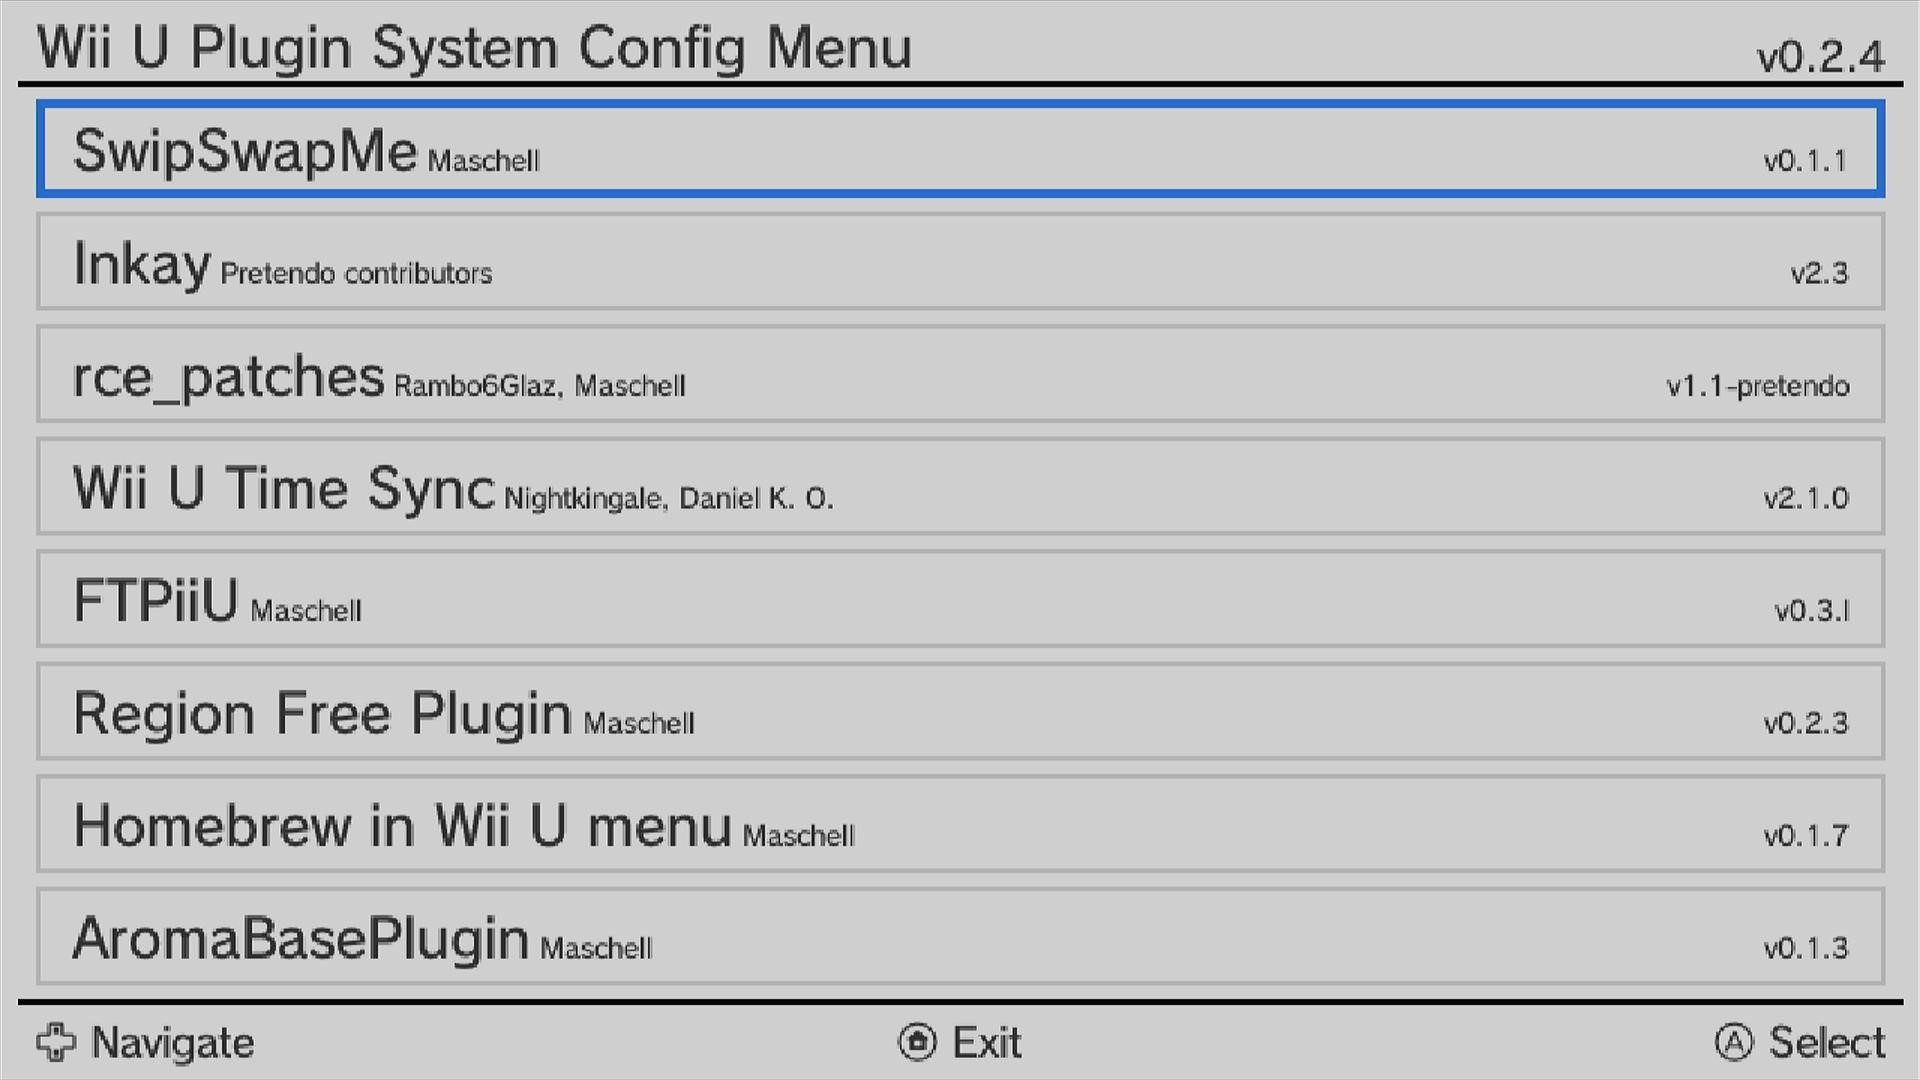
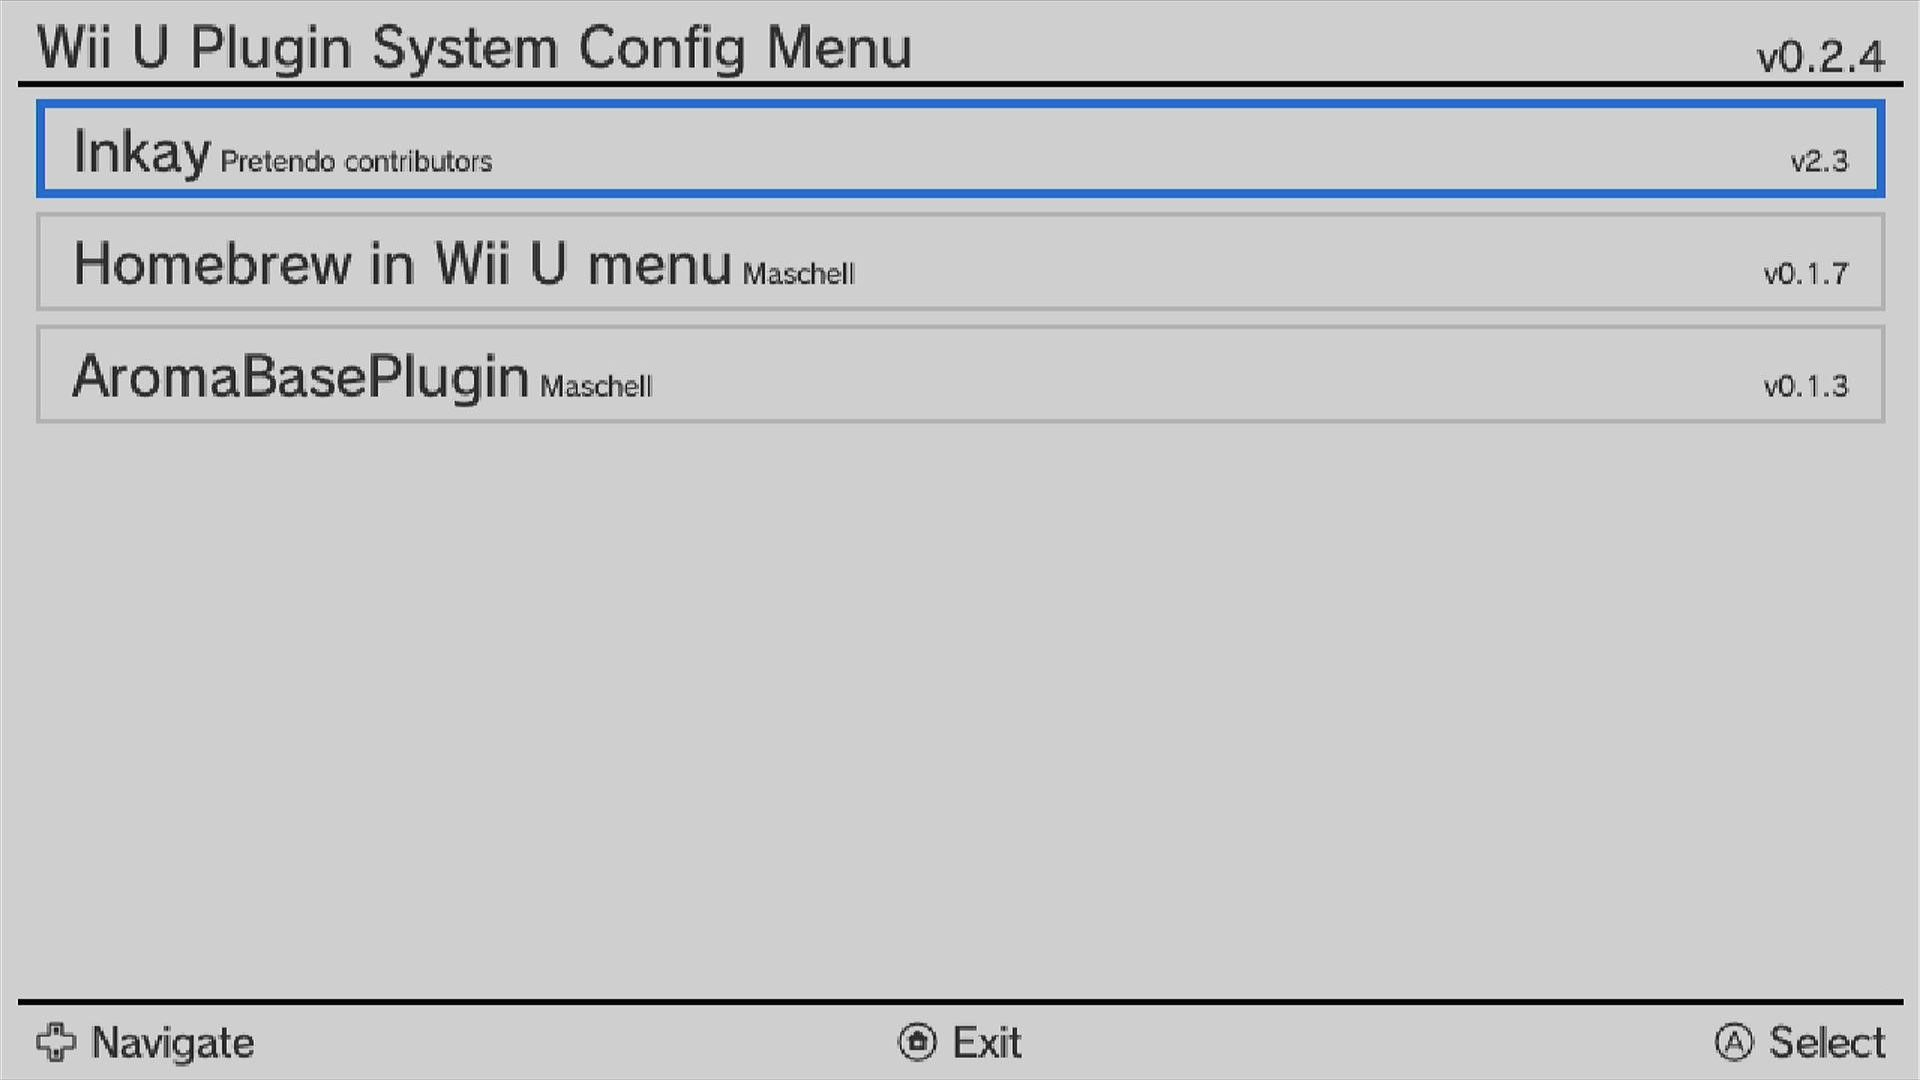
docs: rewrote some sentences in "Switching..." section seciton
Also simplified image

diff --git a/docs/en_US/install/wiiu.md b/docs/en_US/install/wiiu.md
@@ -11,6 +11,8 @@ You can get a Wii U onto Pretendo in just 3 steps:
 2. [Connecting to Pretendo](#connecting-to-pretendo)
 3. [PNID Setup](#pnid-setup)
 
+Make sure to also check out [this](#switching-between-pretendo-network-and-nintendo-network) section to learn how to switch between Pretendo Network and Nintendo Network.
+
 # RCE Patches
 ~~Unfortunately, some of Pretendo's supported games have major security and safety problems. While Nintendo fixed these
 games on the 3DS, thus far they have neglected the Wii U. Pretendo has a patcher which attempts to fix these problems -
@@ -91,26 +93,25 @@ Right before registering a PNID, please make sure to save your password on some 
 
 Finally, set up your PNID, email and password. Once all of this is done, you will be able to use Pretendo servers.
 
-# Switch between connecting to Pretendo Network servers to Nintendo Network servers
+# Switching between Pretendo Network and Nintendo Network
 
-Occasionally, you may want to switch between your Pretendo Network profile on your Wii U, and your Nintendo Network profile on your Wii U. Luckily, it is super simple to switch between the two.
+Occasionally, you may want to switch between your Pretendo Network and your Nintendo Network profiles on your Wii U; fortunately, it is super simple to switch between the two.
 
-Whilst connected to Pretendo, in the HOME Menu, switch to your Nintendo Network profile. If prompted for a password, do not provide it (if you don't have auto sign-in enabled, you may not have the option to not provide it). You are now inside your Nintendo Network profile.
+While connected to Pretendo, in the HOME Menu, switch to your Nintendo Network profile. If prompted for a password, do not provide it (if you don't have auto sign-in enabled, you may not have the option to not provide it). You are now inside your Nintendo Network profile.
 
-On your Wii U GamePad, press the buttons `L + Down + Select`. This opens up the Aroma plugin menu, which should look something like this.
+On your Wii U GamePad, press the buttons `L + Down + SELECT`. This action opens up the Aroma plugin menu, which should look something like this:
 
 <img src="/assets/images/docs/install/wiiu/pnid/aroma-plugins-list.jpg" width="100%">
 
-You may have different options that appear up here, but we only want to look for the 'Inkay' plugin. This is the plugin that patches requests to Nintendo Network to go to Pretendo Network instead. Once you've located the entry for Inkay, press A.
+Your menu might display additional plugins that aren't shown in this image; however, our focus is specifically on the 'Inkay' plugin, which patches requests intended for Nintendo Network and reroutes them to Pretendo Network instead. Once you've found the entry for Inkay, press `A`.
 
-You should now be greeted to a menu with two buttons. Click the one that says `Patching`.
+You should now be greeted with a menu displaying two buttons. Click the one that says 'Patching'.
 
-To use Nintendo's services, set `Connect to the Pretendo Network` to **false**. It should look something like this.
+To use Nintendo's servers, set 'Connect to the Pretendo Network' to **false**. It should look something like this:
 
 <img src="/assets/images/docs/install/wiiu/pnid/inkay-patching.jpg" width="100%">
 
-Once you've done that, press the B button 2 times and then press the HOME Menu button. Your console will reboot with Pretendo Network patches disabled. You can check this by seeing whether a message saying `Using Nintendo Network` is displayed on boot.
-
+Once you've done that, press the `B` button twice, then press the `HOME` button. Your console will reboot with Pretendo Network patches disabled. You can check this by verifying whether a message saying 'Using Nintendo Network' is displayed on boot.
 <img src="/assets/images/docs/install/wiiu/pnid/nintendo-connection.jpg" width="100%">
 
-After that, you should be able to access whatever you want on Nintendo Network servers. To go back to Pretendo, you can follow these steps again, but this time sign into your Pretendo profile instead of your Nintendo profile and make sure `Connect to the Pretendo Network` is set to **true**.
+After that, you should be able to access Nintendo Network. To go back to Pretendo, you can follow these steps again, this time signing into your Pretendo profile and ensuring that 'Connect to the Pretendo Network' is set to **true**.
